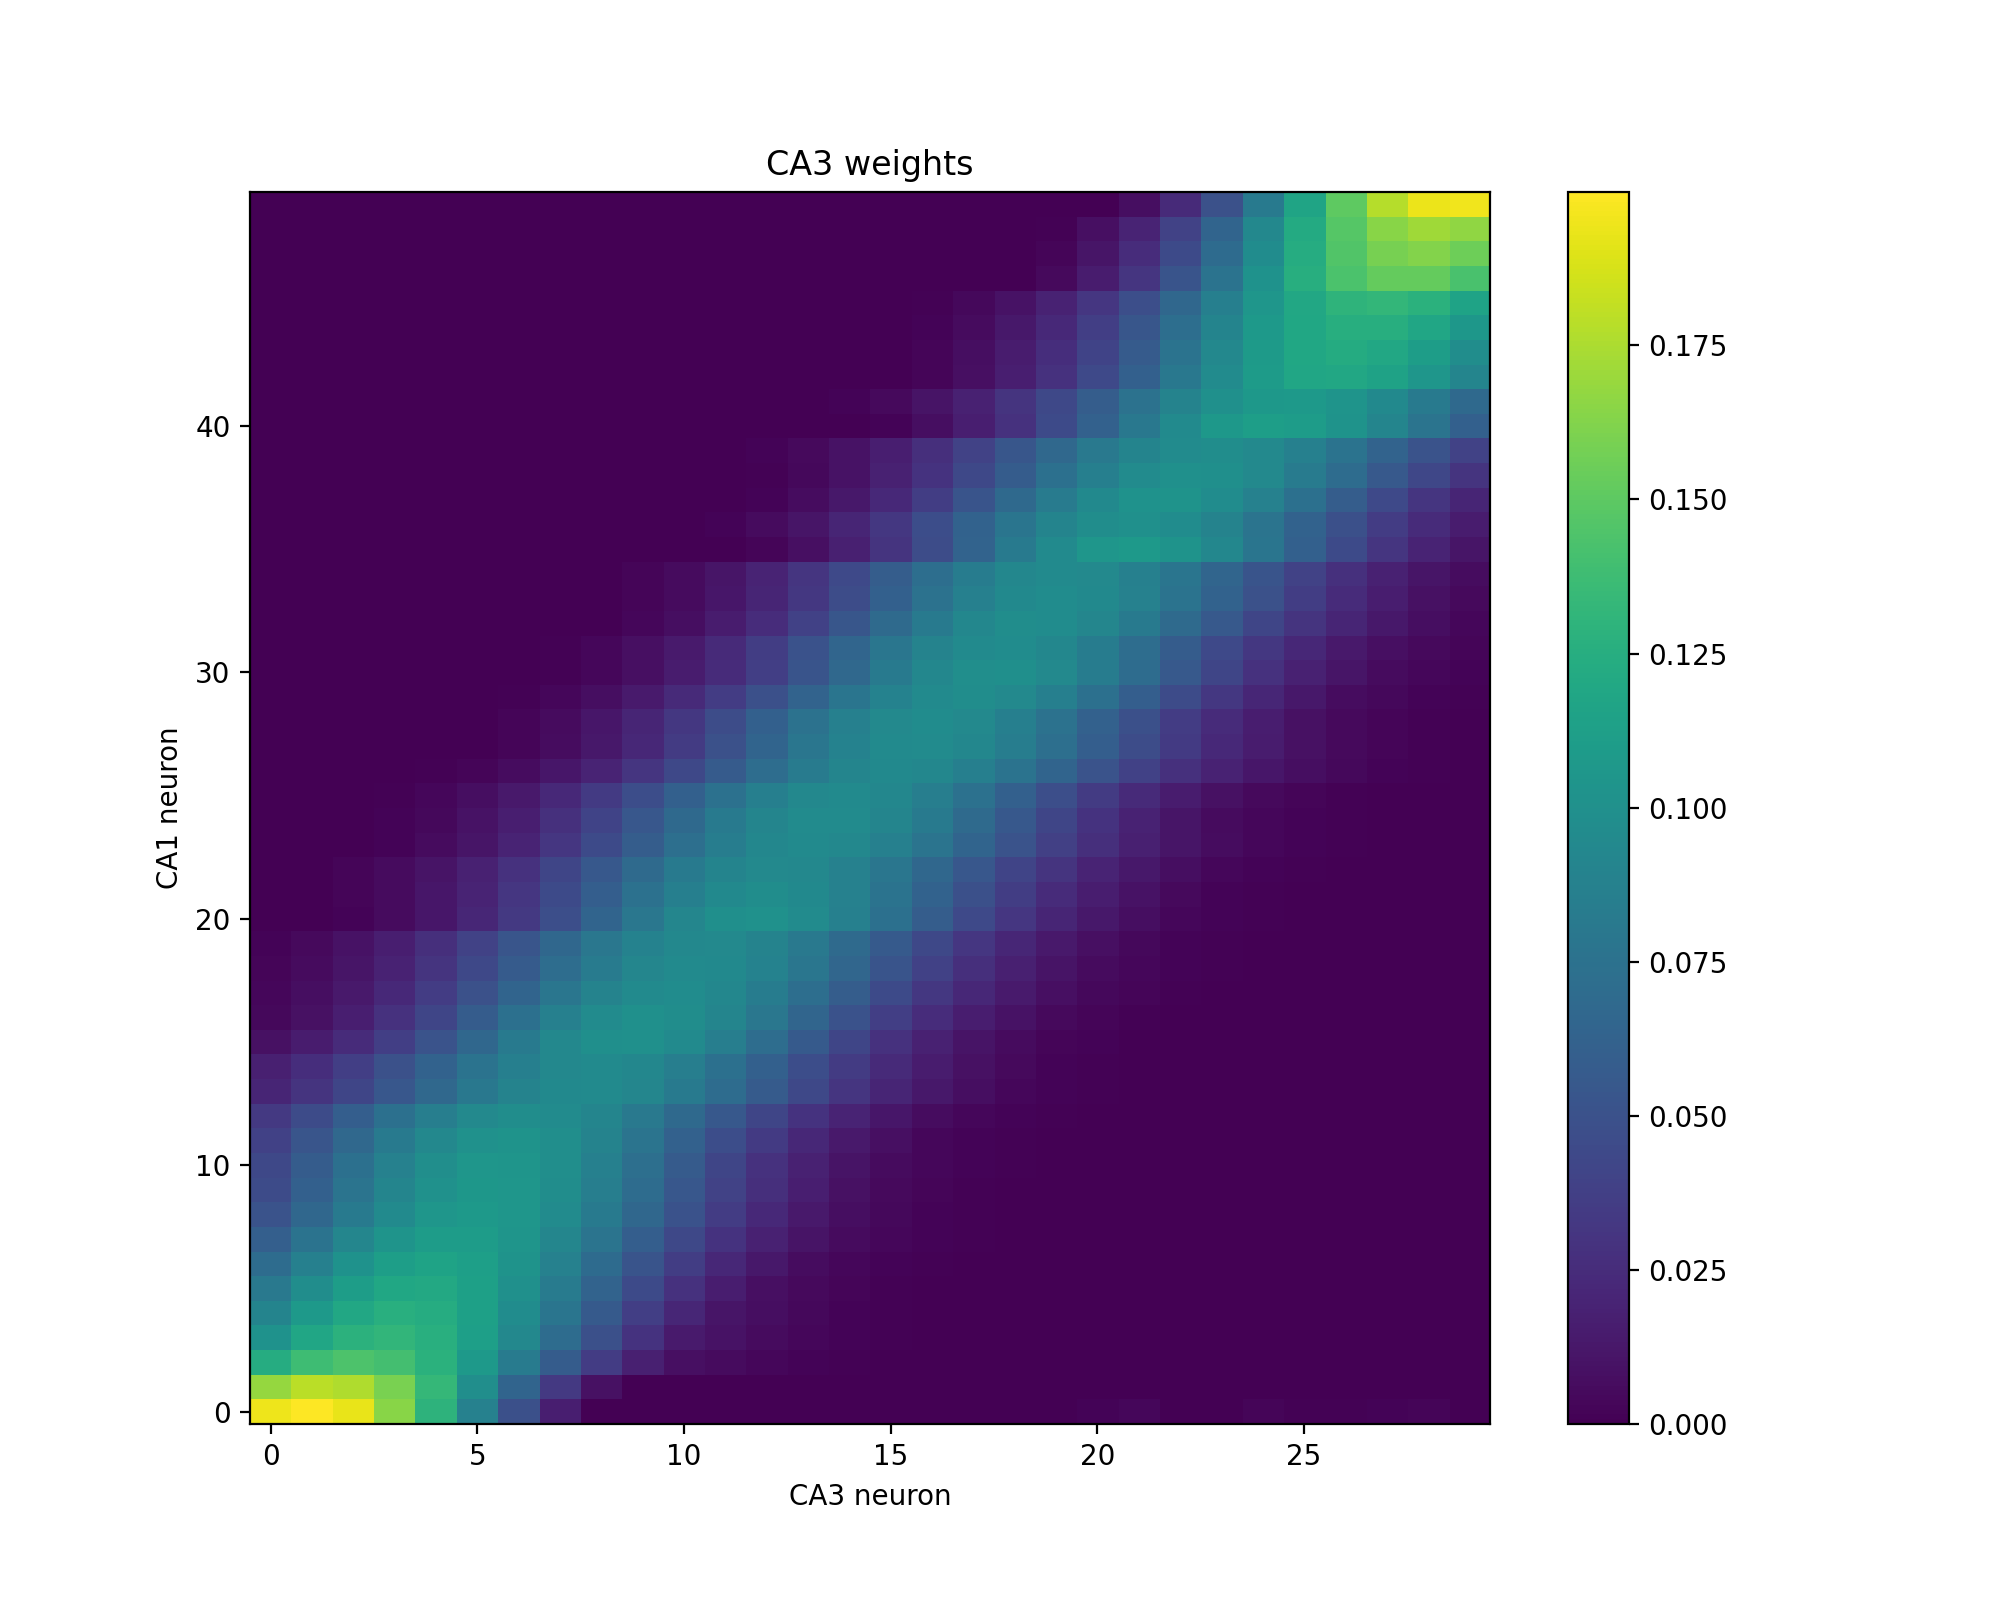
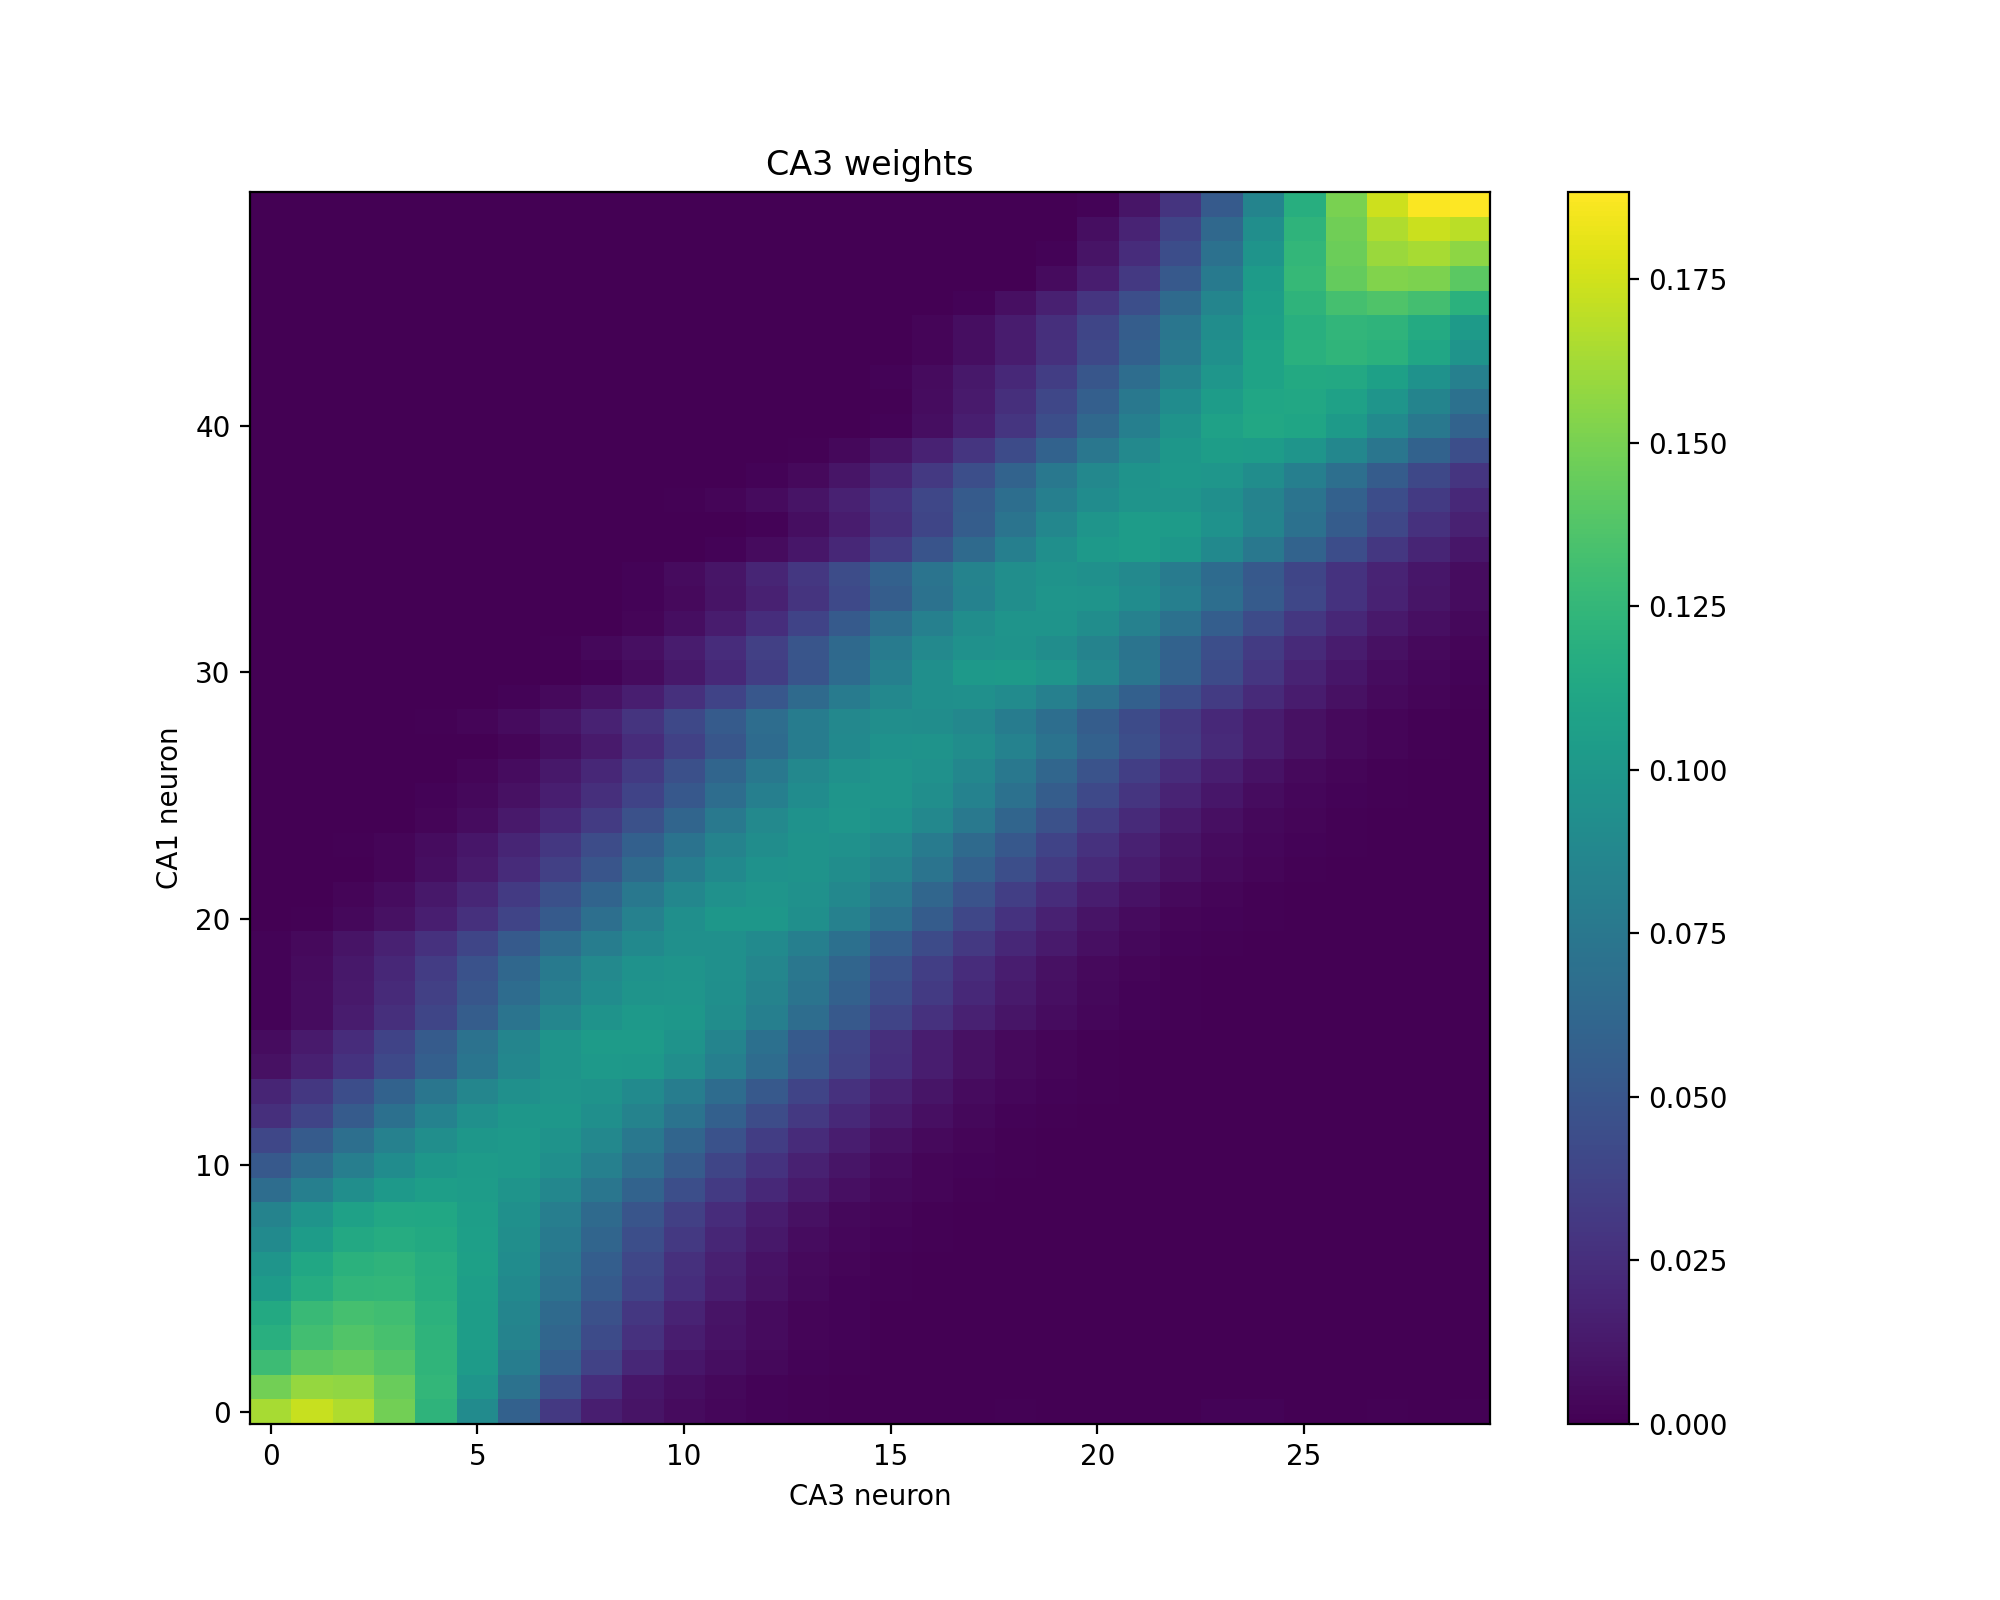
both learning problems up and running

diff --git a/place_inputs.py b/place_inputs.py
@@ -1,7 +1,7 @@
 import numpy as np 
 import matplotlib.pyplot as plt
 from neuron import PyramidalCells
-from test_plasticity import plot_results
+from scipy.stats import pearsonr
 
 
 def simulate_run(len_track = 200, n_runs = 20, av_running_speed = 20, dt = 0.01, tn = 1000):
@@ -10,7 +10,6 @@ def simulate_run(len_track = 200, n_runs = 20, av_running_speed = 20, dt = 0.01,
     fps = 1/dt
 
     n_runs = 1000
-    print(n_runs)
 
     # running_speed_a = np.random.chisquare(av_running_speed, size=n_runs) # running speed in the two directions
     # running_speed_b = np.random.chisquare(av_running_speed, size=n_runs) 
@@ -33,7 +32,6 @@ def simulate_run(len_track = 200, n_runs = 20, av_running_speed = 20, dt = 0.01,
         if len(x) >= tn*fps:
             break
         i += 1
-        print(tn)
 
     x = x[:int(tn*fps)]
     t = np.arange(len(x))/fps
@@ -96,82 +94,75 @@ def run_simulation(len_track, av_running_speed, tn, n_cells, lr, n_plast_steps =
     
     plot_track_CA3(t_run, x_run, pyramidal.CA3_act)
 
-    quit()
-    pyramidal.pattern_retrieval(patterns, top_down, t_per_pattern=t_per_pattern, dt=dt)
+    tn_retrieval = 1000
+    max_runs_rt = int(tn_retrieval/20)
 
-    params_basal  = {"E_L": -65, "R": 10, "v_th": -50, "tau": 10}
-    params_apical = {"E_L": -65, "R": 10, "v_th": -50, "tau": 5 }
-    params_inter  = {"E_L": -65, "R": 10, "v_th": -50, "tau": 10}
-
-    n_pyr, n_CA3, n_int_a, n_int_b = n_cells['pyramidal'], n_cells['CA3'], n_cells['inter_a'], n_cells['inter_b']
-
-    m_a, m_b = 2*6.5, 8*n_pyr*2
-
-    # Setting the simulation time parameters 
-    t0 = 0
-    tn = tn
-    dt = 0.01
+    t_run2, x_run2 = simulate_run(len_track, max_runs_rt, av_running_speed, dt, tn_retrieval)
     
+    event_count = pyramidal.retrieve_place_cells(t_run2, x_run2, dt, new_env=False)
+    fr_old = get_firing_rates(pyramidal, event_count, delta_t = 10)
 
-    
-    print(max_runs)
+    plot_firing_rates(fr_old, pyramidal.m_EC, out = 'old_env')
 
+    event_count = pyramidal.retrieve_place_cells(t_run2, x_run2, dt, new_env=True)
+    fr_new = get_firing_rates(pyramidal, event_count, delta_t = 10)
+
+    plot_firing_rates(fr_new, pyramidal.m_EC, out = 'new_env')
+
+    r_row, r_col = correlate_firing_rates(fr_old, fr_new)
+    print(r_row, r_col)
+
+
+def correlate_firing_rates(fr_old, fr_new):
+    cor_row = np.zeros((fr_old.shape[0]))
+    for i in range(fr_old.shape[0]):
+        cor_row[i] = pearsonr(fr_old[i, :], fr_new[i, :])[0]
+        
+    cor_col = np.zeros((fr_old.shape[1]))
+    for i in range(fr_old.shape[1]):
+        cor_col[i] = pearsonr(fr_old[:, i], fr_new[:, i])[0]
+ 
+    return np.mean(cor_row), np.mean(cor_col)
+
+
+def plot_firing_rates(firing_rates, m_EC, out):
+
+    sort_TD = np.argsort(m_EC)
+    sorted_fr = firing_rates[np.ix_(sort_TD, np.arange(firing_rates.shape[1]))]
+
+    ###### FOR NOW SINCE RETRIEVAL IS ONLY ONE WAY FORWARD AND ONE WAY BACK, I CAN JUST SPLIT IN MIDDLE AND MEAN. 
+    ###### IDEALLY I WOULD SOMEHOW PUT IT IN BINS ACCORDING TO POSITION AND THEN MEAN OVER THAT
+
+    half = sorted_fr.shape[1] // 2
+    mean_firing_rates = (sorted_fr[:, :half] + sorted_fr[:, :-half-1:-1]) / 2
+
+    fig, ax = plt.subplots(figsize = (10,8), dpi = 200)
+    extent = [0, 100, 0, mean_firing_rates.shape[0]]
+    im = ax.imshow(mean_firing_rates, aspect='auto', extent=extent, origin='lower')
+    fig.colorbar(im, ax=ax)
+    ax.set_title("Firing rates of CA1 neurons")
+    ax.set_xlabel("Position (cm)")
+    ax.set_ylabel("Neuron")
+    plt.savefig(f'plots/firing_rates_{out}.png')
+    plt.close()
+
+
+
+def get_firing_rates(pyramidal, event_count, delta_t = 10):
+    # event_count = pyramidal.spike_count
    
-
-    CA3_act, m_CA3 = simulate_activity(t, x, len_track = len_track, n_cells = n_CA3, tn = tn, dt = dt, m = m_b)
-    I_CA3 = lambda t: CA3_act[:, int(t/dt)]
-    EC_inp, m_EC = simulate_activity(t, x, len_track = len_track, n_cells = n_pyr, tn = tn, dt = dt, m = m_a)
-    I_EC = lambda t: EC_inp[:, int(t/dt)]
-
-    plot_track_CA3(t, x, CA3_act)
-
-    # TODO: I want to hardcode all these parameters into the neuron class:
-    W_ip_a = 2000*np.ones((n_int_a, n_pyr))/np.sqrt(n_pyr)
-    W_ip_b = 1000*np.ones((n_int_b, n_pyr))/np.sqrt(n_pyr)
-    W_pi_a = 1000*np.ones((n_pyr, n_int_a))/np.sqrt(n_pyr)
-    W_pi_b = 1000*np.ones((n_pyr, n_int_b))/np.sqrt(n_pyr)
-
-    weights = {'pi_a' : W_pi_a, 'pi_b' : W_pi_b, 'ip_a' : W_ip_a, 'ip_b' : W_ip_b, 
-               'pp_a' : np.zeros((n_int_a, n_int_a)), 'pp_b' : np.zeros((n_int_b, n_int_b)),
-               'CA3' : None}
+    step_size = int(delta_t // pyramidal.dt)
+    firing_rates = np.zeros((event_count.shape[1], len(event_count) // step_size))
     
-    v0 = {
-        "basal":  np.random.normal(params_basal['E_L'], 2*m_a/1000, n_cells['pyramidal']),
-        "apical": np.random.normal(params_apical['E_L'], 2*m_a/1000, n_cells['pyramidal']),
-        "inter_a":  params_inter['E_L'],
-        "inter_b":  params_inter['E_L']
-        }
-    
-    pyramidal = PyramidalCells(  
-                    params_basal=params_basal,
-                    input_basal=I_CA3,
-                    params_apical=params_apical,
-                    input_apical=I_EC,
-                    params_inter=params_inter,   
-                    n_cells=n_cells,
-                    weights=weights,
-                    plasticity=True,
-                    learning_rate=lr
-                    )
+    for i in range(firing_rates.shape[1]):
+        firing_rates[:, i] = np.sum(event_count[i * step_size:(i + 1) * step_size, :], axis = 0) / delta_t
 
-    _, _, _, event_count, burst_count, events, bursts = pyramidal.run_simulation(
-                v0, t0, tn, dt, n_patterns = int(n_plast_steps/20))
-    
-    cos_dist = pyramidal.cosine_distances
-    neuron_type = np.ones(n_pyr)
-    delta_t = 10
-
-    plot_weights(pyramidal.W_CA3, m_CA3, m_EC)
-
-    if True:
-        plot_results(events, bursts, delta_t, event_count, burst_count, tn, t, CA3_act, EC_inp.T, neuron_type, n_pyr, dt, cos_dist)
+    return firing_rates
 
 
 def plot_weights(W, m_CA3, m_EC):
-    # print(m_CA3, m_EC, m_CA3.shape, m_EC.shape, W.shape)
     sort_CA3 = np.argsort(m_CA3)
     sort_EC = np.argsort(m_EC)
-    print(sort_EC.shape, sort_CA3.shape)
 
     fig, ax = plt.subplots(figsize = (10,8), dpi = 200)
     sorted_W = W[np.ix_(sort_EC, sort_CA3)]
@@ -184,14 +175,14 @@ def plot_weights(W, m_CA3, m_EC):
 
 
 def main():
-    np.random.seed(42)
+    np.random.seed(1)
     
 
     len_track = 100. # 100
     tn = 1000
     av_running_speed = .2 # 0.2
     lr = .001 # 0.001
-    n_plast_steps = 1000 # 100
+    n_plast_steps = 4000 # 100
 
     n_cells = {'pyramidal' : 50, 'inter_a' : 5, 'inter_b' : 5, 'CA3' : 30}
 
@@ -202,7 +193,6 @@ def main():
     # Some measure of similarity between the two environments
     # Do the same in CA3, and we want similarity in CA1 to be higher than in CA3, do it column wise and row wise 
 
-    # print(t.shape, x.shape)
     # 
     # plt.figure()
     # plt.plot(t, x)

diff --git a/neuron.py b/neuron.py
@@ -29,8 +29,11 @@ class PyramidalCells():
             self, 
             n_cells,
             weights = None,
-            learning_rate = 0.05
+            learning_rate = 0.05,
+            dt = 0.01
             ): 
+        
+        self.dt = dt
         
         self.t_values = [0.]
         
@@ -102,6 +105,7 @@ class PyramidalCells():
     
     
     def create_I_CA3(self, pattern, tn, dt, t0_epoch):
+        dt = self.dt
     
         m_b = 8*self.n_cells['pyramidal']
         sigma = 2*6.5/1000
@@ -114,6 +118,7 @@ class PyramidalCells():
 
 
     def create_I_EC(self, pattern, tn, dt, t0_epoch):
+        dt = self.dt
     
         m_a = 6.5
         sigma = 2*6.5/1000
@@ -126,6 +131,7 @@ class PyramidalCells():
     
 
     def learn_patterns(self, patterns, top_down, n_presentations, t_per_pattern, dt=.01):
+        dt = self.dt
         
         n_patterns = patterns.shape[1]
         tn = n_presentations * n_patterns * t_per_pattern
@@ -145,15 +151,17 @@ class PyramidalCells():
             
 
     def learn_place_cells(self, t_run, x_run, t_per_epoch, dt):
+        # TODO: delete the dt as local variable
+        dt = self.dt
 
         m_a, m_b = 2*6.5, 8*self.n_cells['pyramidal']*2
 
         tn = t_run[-1]
         len_track = np.max(x_run)
-        n_epochs = int(tn//t_per_epoch)
+        n_epochs = int(round(tn/t_per_epoch))
 
-        self.spike_count = np.zeros((int(round(tn / dt +10)), self.n_cells['pyramidal']))
-        self.burst_count = np.zeros((int(round(tn / dt +10)), self.n_cells['pyramidal']))
+        self.spike_count = np.zeros((int(round(tn / dt)), self.n_cells['pyramidal']))
+        self.burst_count = np.zeros((int(round(tn / dt)), self.n_cells['pyramidal']))
 
         self.I_b, self.m_CA3, self.CA3_act = self.create_activity_pc(x_run, len_track, dt, tn, self.n_cells['CA3'], m_b)
         self.I_a, self.m_EC, _ = self.create_activity_pc(x_run, len_track, dt, tn, self.n_cells['pyramidal'], m_a)
@@ -164,22 +172,26 @@ class PyramidalCells():
             self.run_one_epoch(t_epoch, dt)
 
 
-    def create_activity_pc(self, x, len_track, dt, tn, n_cells, m):
+    def create_activity_pc(self, x, len_track, dt, tn, n_cells, m, m_cells = None): # TODO: delete the dt as local variable
+        t0 = self.t_values[-1]
+        dt = self.dt
         sigma_pf = len_track/8
-        m_cells = np.arange(0, len_track, len_track/n_cells) 
-        np.random.shuffle(m_cells)
+        if m_cells is None:
+            m_cells = np.arange(0, len_track, len_track/n_cells) 
+            np.random.shuffle(m_cells)
 
-        activity = np.zeros((n_cells, int(tn/dt + 10)))
-        for i in range(int(tn/dt)):
+        activity = np.zeros((n_cells, int(round(tn/dt)+10)))
+        for i in range(int(tn//dt)):
             activity[:, i] = np.exp(-0.5 * ((m_cells - x[i])**2) / sigma_pf**2)
 
         active_cells = np.random.choice([0, 1], size=(n_cells,), p=[0, 1]) # TODO: CHANGE THIS TO A PROBABILITY
         activity = m * activity * active_cells[:, np.newaxis]
 
-        return lambda t: activity[:, int((t)/dt)], m_cells, activity
+        return lambda t: activity[:, int((t-t0)/dt)], m_cells, activity
     
 
-    def run_one_epoch(self, t_epoch, dt):
+    def run_one_epoch(self, t_epoch, dt): # TODO: delete the dt as local variable
+        dt = self.dt
             
         self.bursting = np.zeros(self.n_cells['pyramidal'])
         self.spiking = np.zeros(self.n_cells['pyramidal'])
@@ -213,6 +225,7 @@ class PyramidalCells():
             [values[i].append(values_new[i]) for i in ['v_a', 'v_b', 'v_i_a', 'v_i_b']]
 
             t = int(round(t_new/dt))
+            # print(t, self.spiking)
             self.burst_count[t-1, :] = self.bursting
             self.spike_count[t-1, :] = self.spiking
 
@@ -224,7 +237,8 @@ class PyramidalCells():
         self.values = values_new
     
 
-    def pattern_retrieval(self, patterns, top_down, t_per_pattern, dt=.01):
+    def pattern_retrieval(self, patterns, top_down, t_per_pattern, dt=.01): # TODO: delete the dt as local variable
+        dt = self.dt
         self.cosine_distances = []
         
         n_patterns = patterns.shape[1]
@@ -234,7 +248,7 @@ class PyramidalCells():
         self.burst_count = np.concatenate([self.burst_count, np.zeros((int(round(tn / dt)), self.n_cells['pyramidal']))])
 
         n_epochs = n_patterns 
-        zero_top_down = np.zeros((int(tn/dt + 10), self.n_cells['pyramidal']))
+        zero_top_down = np.zeros((int(tn//dt), self.n_cells['pyramidal']))
         
         for j in range(n_patterns):
             t_epoch = self.t_values[-1] + tn//n_epochs
@@ -247,7 +261,37 @@ class PyramidalCells():
             self.cosine_distances.append(cosine_distance)
     
 
-    def plasticity_step(self, t0, tn, dt):
+    def retrieve_place_cells(self, t_run, x_run, dt, new_env = False):
+        # TODO: DOES THIS FUNCTION MAKE MUCH SENSE? MAYBE INSTEAD I SHOULD MAKE IT POSSIBLE TO RUN IN DIFFERENT ENVIRONMENT
+        dt = self.dt
+        t0_retrieval = self.t_values[-1]
+
+        m_a, m_b = 2*6.5, 8*self.n_cells['pyramidal']*2
+
+        tn = t_run[-1]
+        len_track = np.max(x_run)
+
+        self.spike_count = np.concatenate([self.spike_count, np.zeros((int(round((tn) / dt)), self.n_cells['pyramidal']))])
+        self.burst_count = np.concatenate([self.burst_count, np.zeros((int(round((tn) / dt)), self.n_cells['pyramidal']))])
+
+        if new_env:
+            self.I_b, self.m_CA3, self.CA3_act = self.create_activity_pc(x_run, len_track, dt, tn, self.n_cells['CA3'], m_b)
+        else:
+            self.I_b, self.m_CA3, self.CA3_act = self.create_activity_pc(x_run, len_track, dt, tn, self.n_cells['CA3'], m_b, self.m_CA3)
+
+        zero_top_down = np.zeros((int(round(tn/dt)+10), self.n_cells['pyramidal']))
+        
+        self.I_a = lambda t: zero_top_down[int((t-t0_retrieval)/dt), :]
+        
+        self.run_one_epoch(tn + t0_retrieval, dt)
+
+        print(self.spike_count.shape)
+
+        return self.spike_count[int((t0_retrieval//dt)):, :]
+
+
+    def plasticity_step(self, t0, tn, dt): # TODO: delete the dt as local variable
+        dt = self.dt
         
         last_events = self.spike_count[int(t0/dt):int(tn/dt), :]
         mean_events = np.mean(last_events, axis=0)
